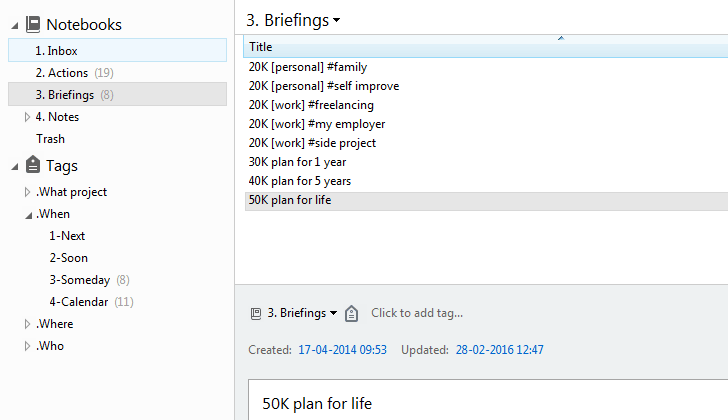
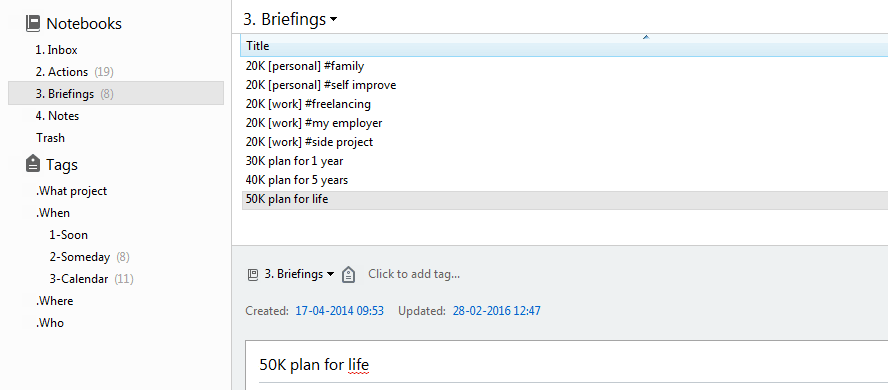
+A010

diff --git a/README.md b/README.md
@@ -134,25 +134,26 @@ Organize your documents and workflow. Boost productivity while reducing your str
 ####Introduction:
 
 - in Hamster-GTD:
-  - undivisible tasks are called *actions*.
-  - a list of actions is called *briefing*.
-  - non-actionable items are called *notes*.
+
+    - undivisible tasks are called *actions*.
+    - a list of actions is called *briefing*.
+    - non-actionable items are called *notes*.
 
 - for workflow management, Hamster-GTD uses [Evernote](https://www.evernote.com/referral/Registration.action?sig=3ce24e3db69e37fbf772dab92921127b&uid=52016286)<sup> 5</sup> with a simplified version of [Secret Weapon](http://www.thesecretweapon.org/media/Manifesto/The-Secret-Weapon-Manifesto.pdf)<sup> 1</sup>.<br>
 Main differences (check also [how does it look](#how-does-it-look)):
 
-  - different notebook structure:
+    - different notebook structure:
 
-       1.Inbox (temporary storage before deciding what to do with an item)
-       2.Actions (to store all actions)
-       3.Briefings (to store all briefings)
-       4.Notes (to store all notes/project references)
+           1.Inbox (temporary storage before deciding what to do with an item)
+           2.Actions (to store all actions)
+           3.Briefings (to store all briefings)
+           4.Notes (to store all notes/project references)
   
-  - simplified *.When* tags for *actions*:
+    - simplified *.When* tags for *actions*:
 
-       1-Soon (actions in the queue to get done)
-       2-Someday (actions to get done someday)
-       3-Calendar (actions with a precise/deadline date or with a trigger/fuzzy date to get done)
+           1-Soon (actions in the queue to get done)
+           2-Someday (actions to get done someday)
+           3-Calendar (actions with a precise/deadline date or with a trigger/fuzzy date to get done)
 
 ####Actions:
 
@@ -202,6 +203,10 @@ Main differences (check also [how does it look](#how-does-it-look)):
 - screenshot of Hamster-GTD using Evernote.
 
 ![hamster-workflow-screenshot](https://github.com/we-build-dreams/hamster-gtd/blob/master/examples/hamster-workflow_screenshot%20example.png)
+
+---
+
+![hamster-workflow-screenshot](https://github.com/we-build-dreams/hamster-gtd/blob/master/examples/hamster-workflow_screenshot%20example2.png)
 
 ---
 <sup>Notes:</sup><br>
